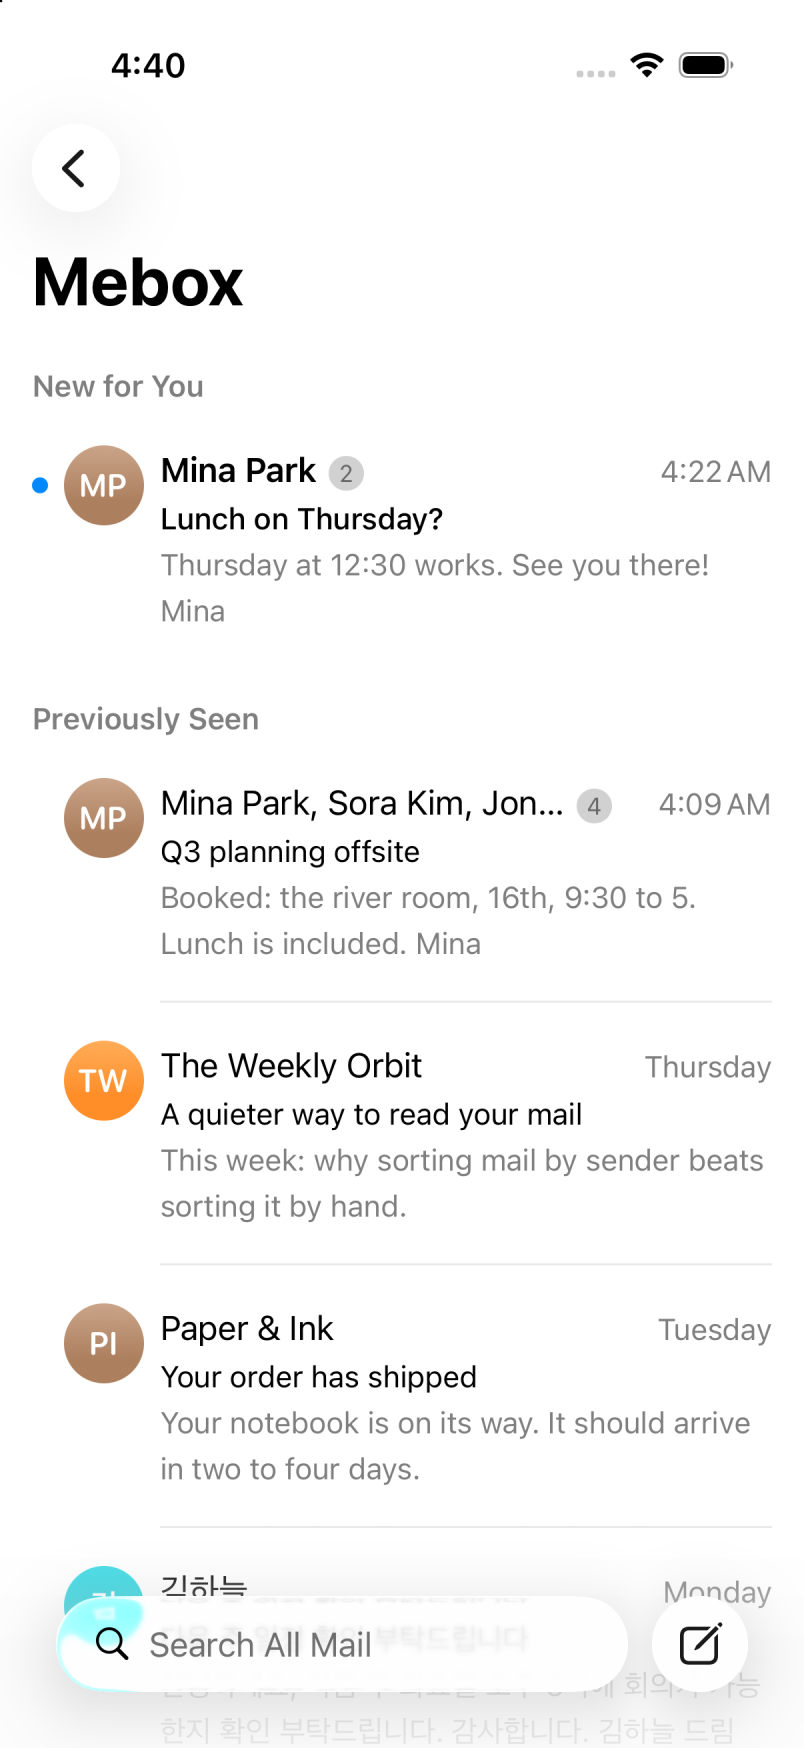
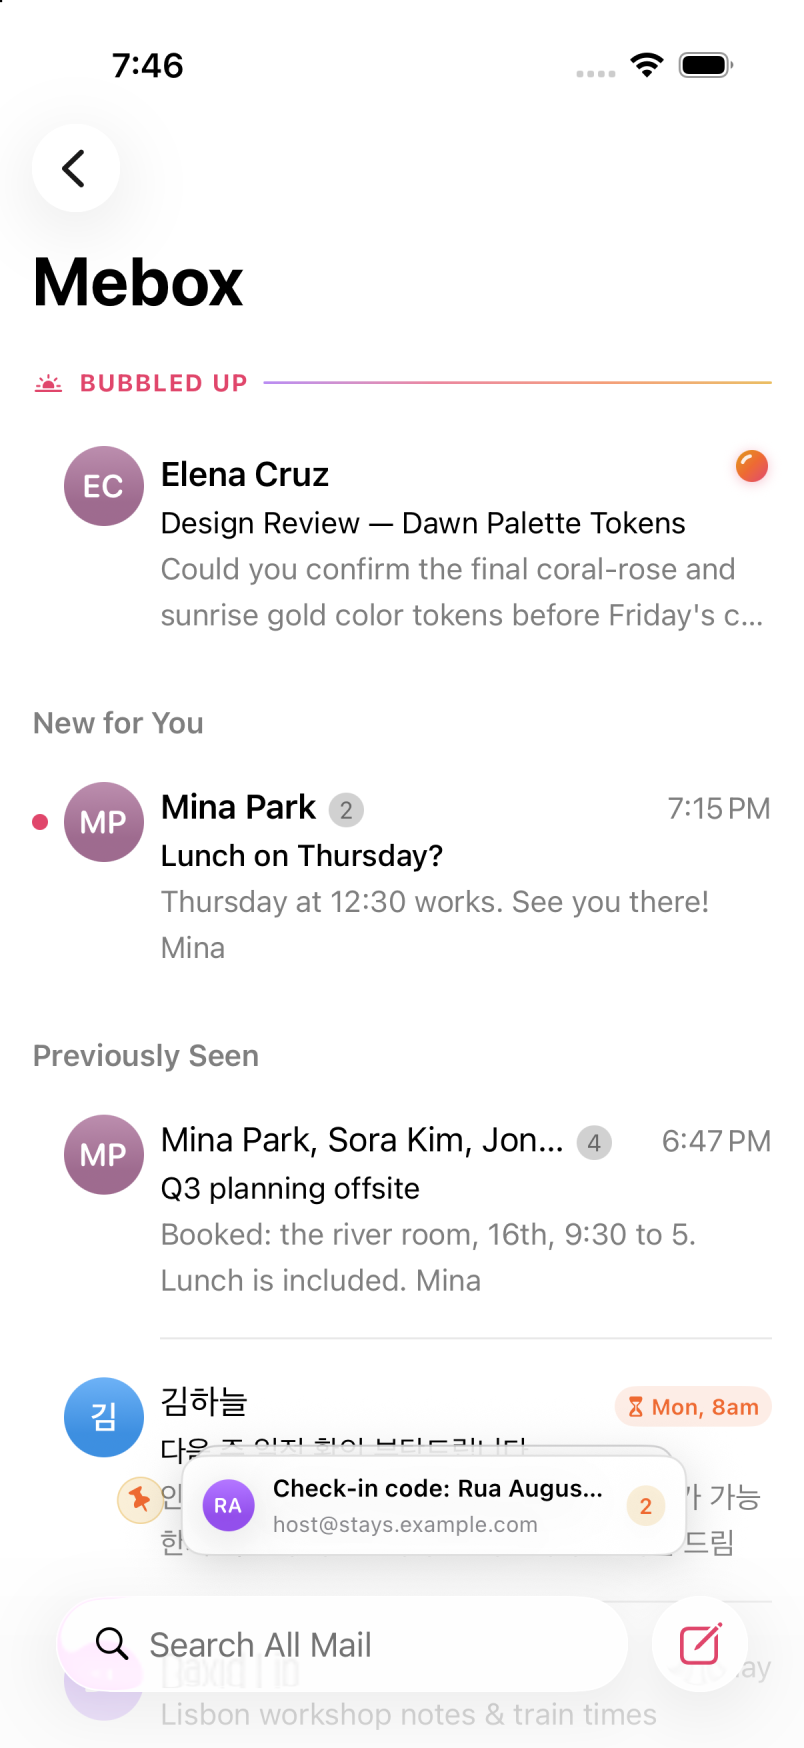
Update iPhone screenshots for Dawn theme and fix SetAsidePile layout

diff --git a/App/Features/Listing/SetAsidePile.swift b/App/Features/Listing/SetAsidePile.swift
@@ -50,54 +50,53 @@ struct SetAsidePile: View {
 
     private func pileStack(top: Conversation, count: Int) -> some View {
         let cardShape = RoundedRectangle(cornerRadius: 12, style: .continuous)
-        return ZStack(alignment: .bottom) {
-            if count >= 3 {
-                cardShape
-                    .fill(Color.textBackground.opacity(0.75))
-                    .overlay(cardShape.strokeBorder(.separator.opacity(0.6)))
-                    .frame(height: 44)
-                    .padding(.horizontal, 12)
-                    .offset(y: -8)
+        return HStack(spacing: 9) {
+            AvatarView(address: top.latest.from, size: 26)
+            VStack(alignment: .leading, spacing: 1) {
+                Text(top.subject.isEmpty ? "(No Subject)" : top.subject)
+                    .font(.caption.weight(.semibold))
+                    .foregroundStyle(.primary)
+                    .lineLimit(1)
+                Text(top.latest.from?.address ?? top.latest.from?.displayName ?? "")
+                    .font(.caption2)
+                    .foregroundStyle(.secondary)
+                    .lineLimit(1)
             }
+            .frame(maxWidth: 168, alignment: .leading)
+
+            if count > 1 {
+                Text(String(count))
+                    .font(.caption2.weight(.semibold).monospacedDigit())
+                    .foregroundStyle(HeydayTheme.coral)
+                    .padding(.horizontal, 6)
+                    .padding(.vertical, 2)
+                    .background(HeydayTheme.sun.opacity(0.16), in: Capsule())
+            }
+        }
+        .padding(.horizontal, 11)
+        .padding(.vertical, 8)
+        .background(Color.textBackground, in: cardShape)
+        .overlay(cardShape.strokeBorder(isHovering ? HeydayTheme.rose.opacity(0.40) : Color.primary.opacity(0.12)))
+        .shadow(color: .black.opacity(0.14), radius: 12, y: 4)
+        .background(alignment: .bottom) {
             if count >= 2 {
                 cardShape
-                    .fill(Color.textBackground.opacity(0.9))
+                    .fill(Color.textBackground.opacity(0.92))
                     .overlay(cardShape.strokeBorder(.separator.opacity(0.75)))
-                    .frame(height: 46)
                     .padding(.horizontal, 6)
-                    .offset(y: -4)
+                    .offset(y: -5)
             }
-
-            HStack(spacing: 9) {
-                AvatarView(address: top.latest.from, size: 26)
-                VStack(alignment: .leading, spacing: 1) {
-                    Text(top.subject.isEmpty ? "(No Subject)" : top.subject)
-                        .font(.caption.weight(.semibold))
-                        .foregroundStyle(.primary)
-                        .lineLimit(1)
-                    Text(top.latest.from?.address ?? top.latest.from?.displayName ?? "")
-                        .font(.caption2)
-                        .foregroundStyle(.secondary)
-                        .lineLimit(1)
-                }
-                .frame(maxWidth: 168, alignment: .leading)
-
-                if count > 1 {
-                    Text(String(count))
-                        .font(.caption2.weight(.semibold).monospacedDigit())
-                        .foregroundStyle(HeydayTheme.coral)
-                        .padding(.horizontal, 6)
-                        .padding(.vertical, 2)
-                        .background(HeydayTheme.sun.opacity(0.16), in: Capsule())
-                }
-            }
-            .padding(.horizontal, 11)
-            .padding(.vertical, 8)
-            .background(Color.textBackground, in: cardShape)
-            .overlay(cardShape.strokeBorder(isHovering ? HeydayTheme.rose.opacity(0.40) : Color.primary.opacity(0.12)))
-            .shadow(color: .black.opacity(0.14), radius: 12, y: 4)
         }
-        .padding(.top, count >= 3 ? 8 : count >= 2 ? 4 : 0)
+        .background(alignment: .bottom) {
+            if count >= 3 {
+                cardShape
+                    .fill(Color.textBackground.opacity(0.8))
+                    .overlay(cardShape.strokeBorder(.separator.opacity(0.6)))
+                    .padding(.horizontal, 12)
+                    .offset(y: -10)
+            }
+        }
+        .padding(.top, count >= 3 ? 10 : count >= 2 ? 5 : 0)
     }
 }
 

diff --git a/App/Features/Listing/MailboxList.swift b/App/Features/Listing/MailboxList.swift
@@ -135,6 +135,7 @@ struct MailboxList: View {
             .overlay(alignment: .bottom) {
                 if listing == .box(.mebox) {
                     SetAsidePile(workspace: workspace)
+                        .padding(.horizontal, 16)
                         .padding(.bottom, setAsidePileClearance)
                 }
             }
@@ -145,7 +146,9 @@ struct MailboxList: View {
         #if os(macOS)
         14
         #else
-        widthClass == .compact ? 62 : 14
+        // Inside NavigationSplitView's content column, the bottom safe area already
+        // clears the iOS 26 bottom search/compose bar; keep a tight floating gap above it.
+        widthClass == .compact ? 10 : 14
         #endif
     }
 

diff --git a/README.md b/README.md
@@ -108,7 +108,7 @@ directly.
 <p align="center">
   <img src="docs/iphone-sidebar.png" alt="Heyday on iPhone showing the mailbox sidebar with Mebox, The Feed, Paper Trail, and The Screener" width="290" />
   &nbsp;&nbsp;&nbsp;&nbsp;
-  <img src="docs/iphone-mebox.png" alt="Heyday on iPhone showing Mebox with New for You and Previously Seen sections" width="290" />
+  <img src="docs/iphone-mebox.png" alt="Heyday on iPhone showing Mebox with Bubbled Up, New for You, Previously Seen, and Set Aside pile" width="290" />
 </p>
 
 ---
